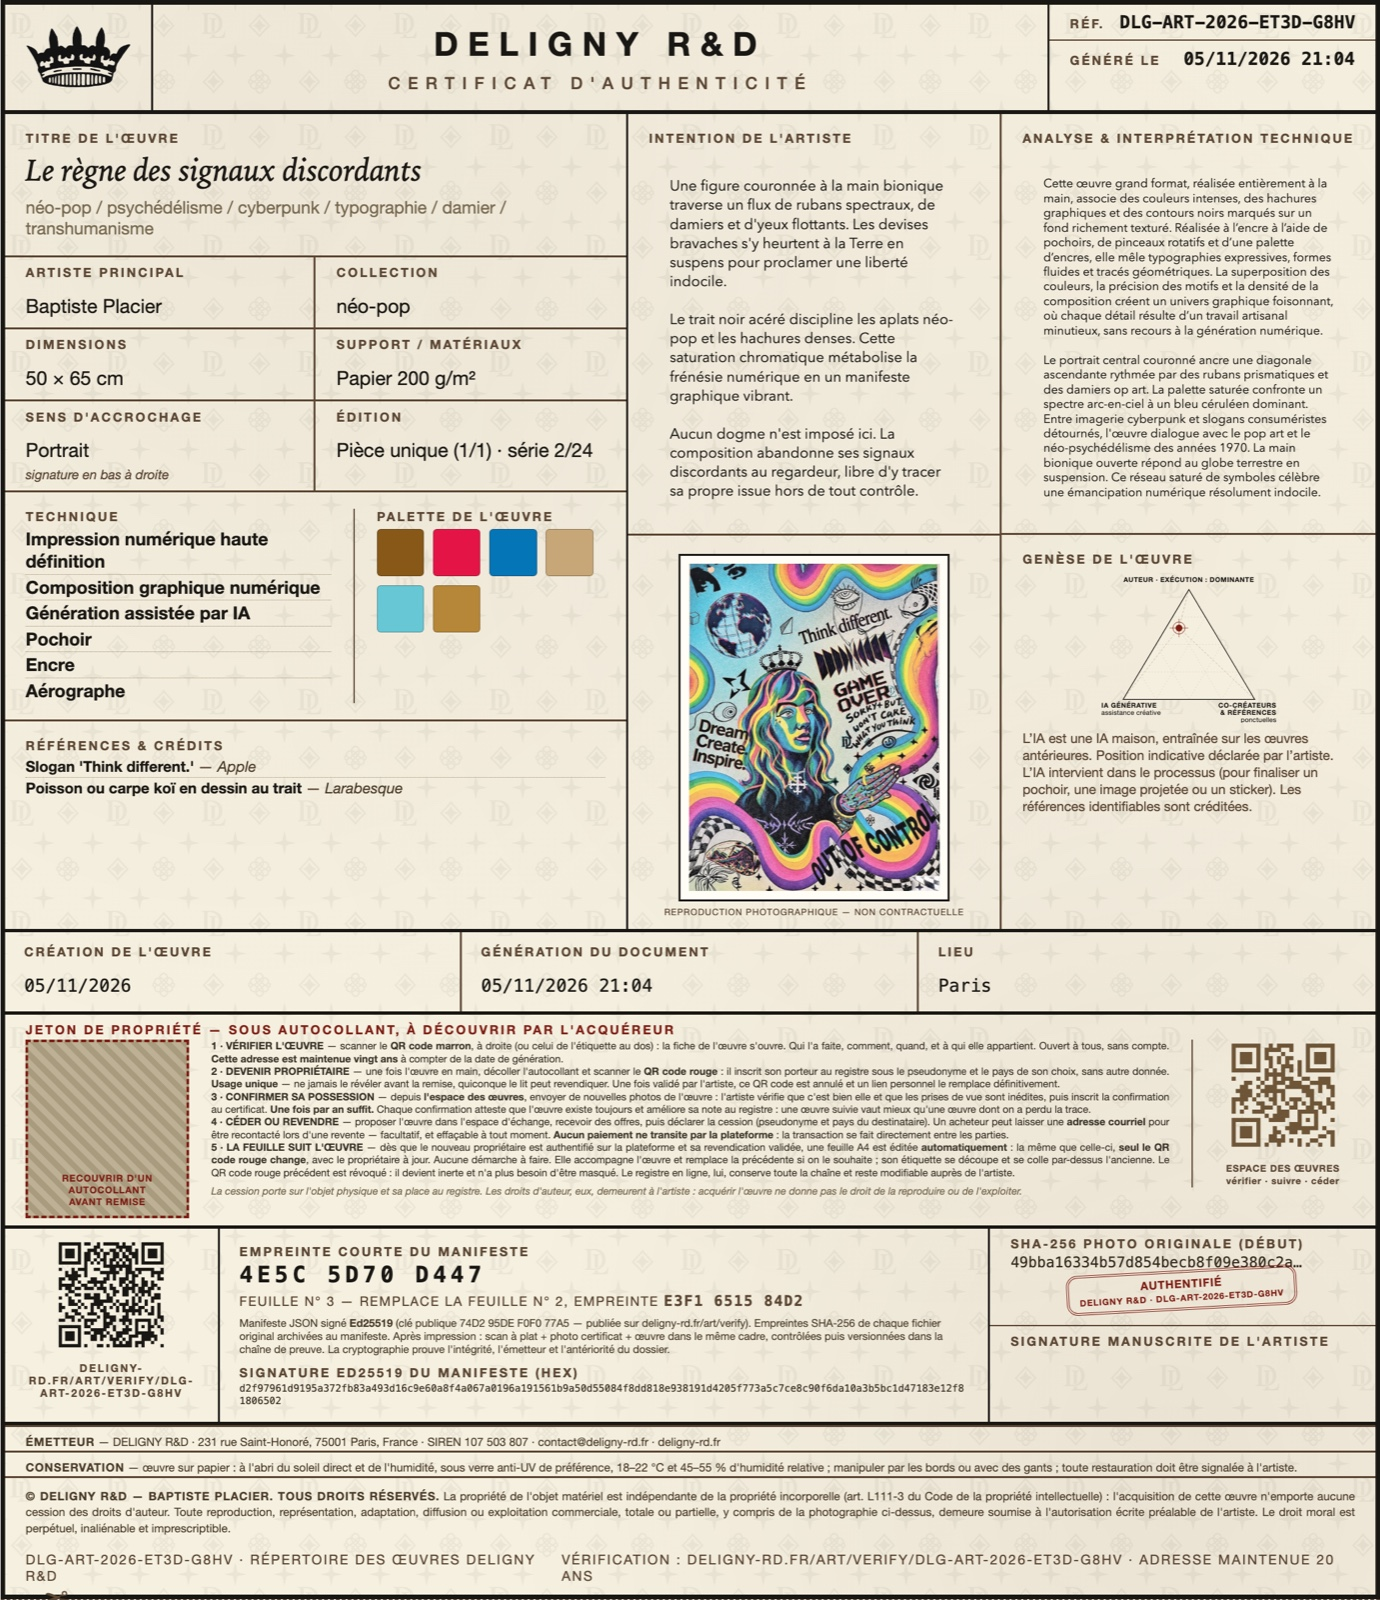
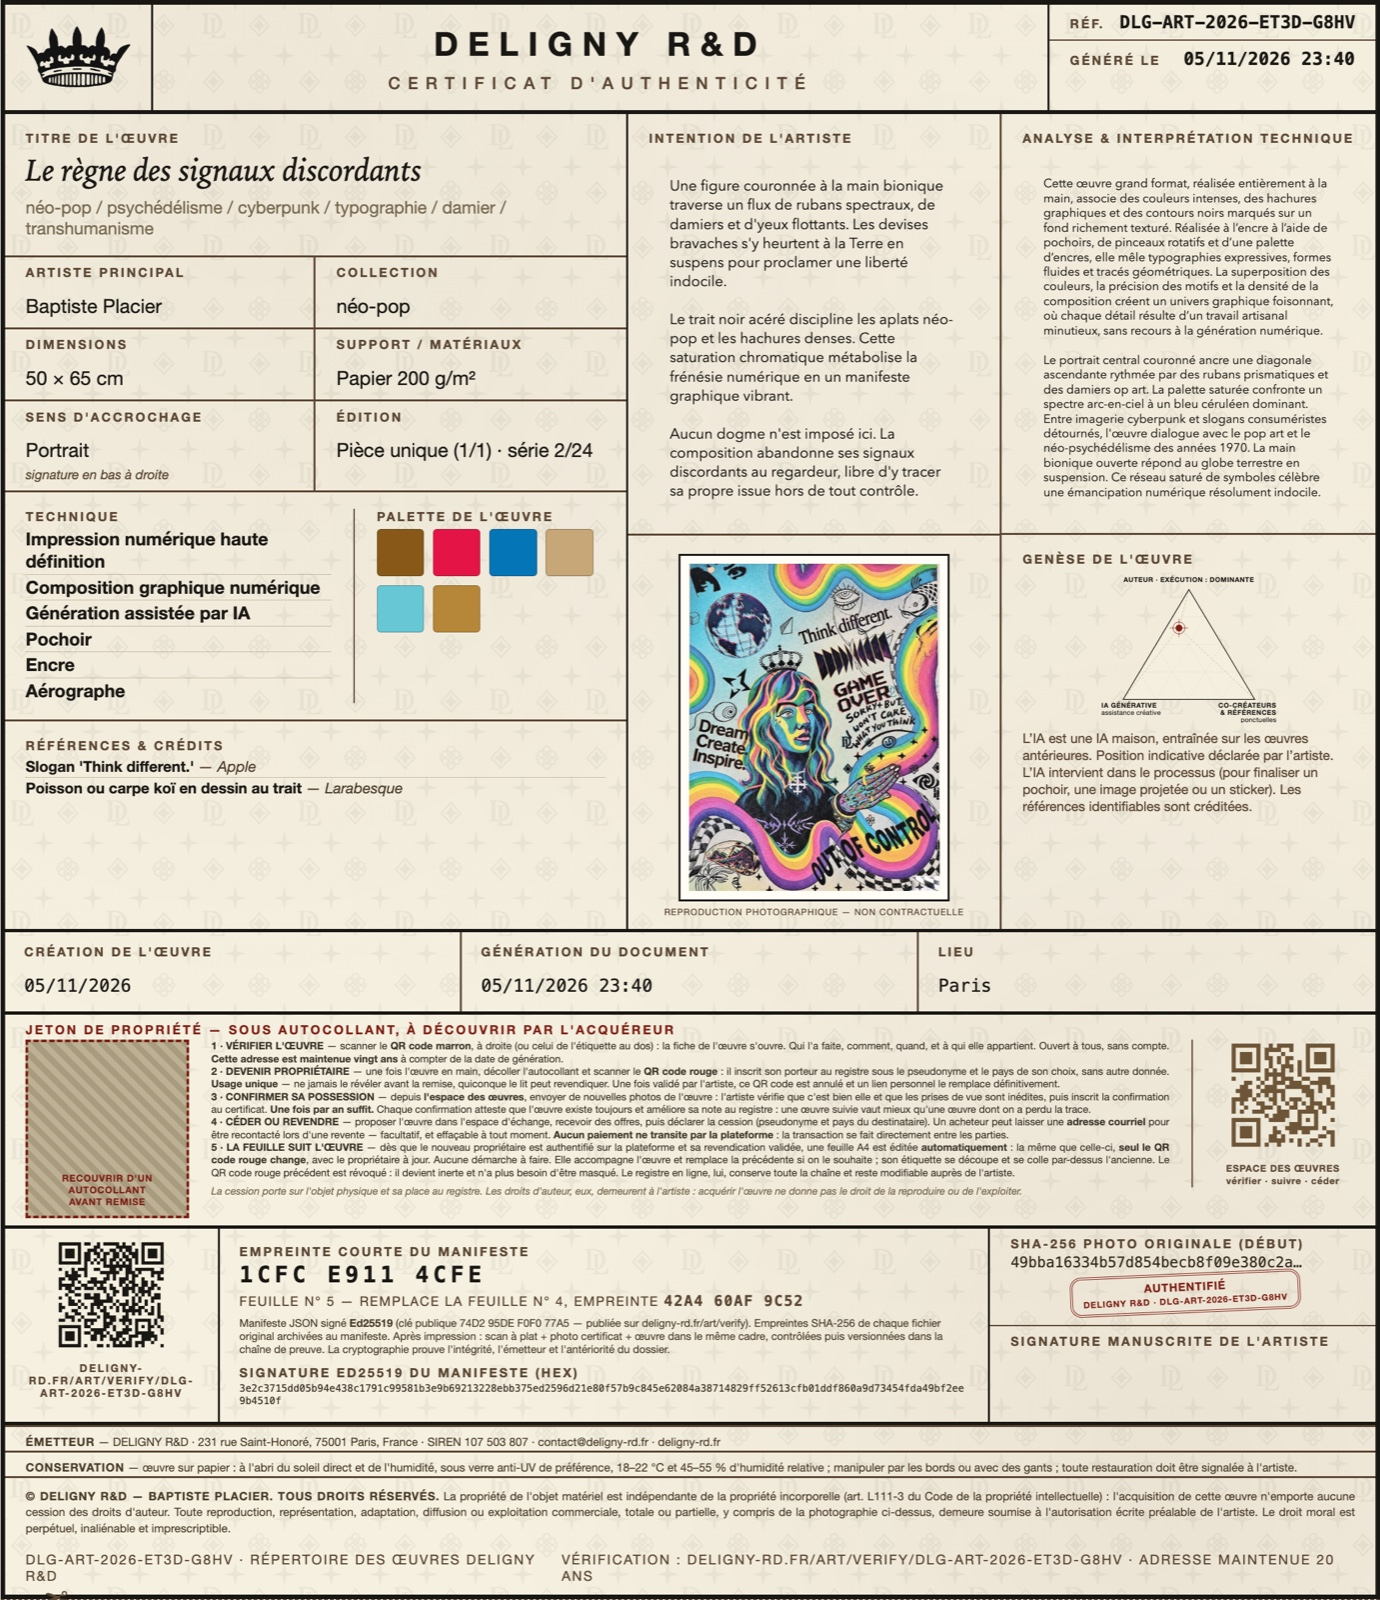
Art : Le regne des signaux discordants passe en etiquette blanche (manifeste v5)
La v4 publiee le 05/11 a 22:01 portait l'etiquette noire. La v5 signe
l'etiquette blanche : galerie 3D, fiche de verification, cartouche (empreinte
1CFC E911 4CFE), flux. Navigation du 04/11 inchangee.

diff --git a/art/verify/DLG-ART-2026-ET3D-G8HV/index.html b/art/verify/DLG-ART-2026-ET3D-G8HV/index.html
@@ -123,7 +123,7 @@
   <a class="bouton" href="#verification">Vérification ✓</a>
 </div>
 <div id="marche"></div>
-<div class="vues"><div><div class="vue-titre">Recto</div><div class="encadrement cad-baguette-or-pp10-bloc"><div class="cadre cad-baguette-or-pp10"><div class="pp"><img src="oeuvre.jpg" alt="Le règne des signaux discordants"><span class="etiquette-collee"><img src="etiquette_noire.jpg" alt="étiquette visible"></span></div></div></div></div><div><div class="vue-titre">Verso — cartouche collé au dos</div><div class="encadrement cad-baguette-or-pp10-bloc"><img class="verso3d" src="../../galerie-3d/oeuvres/DLG-ART-2026-ET3D-G8HV/dos3d.webp" alt="Dos du tableau encadré, cartouche collé" loading="lazy" style="width:100%;height:auto;display:block;filter:drop-shadow(0 6px 14px rgba(0,0,0,.28))"></div></div></div><div class="cadre-mention reel">Encadrement fourni avec l'œuvre, et remplaçable sur demande. Passe-partout 10 mm.</div>
+<div class="vues"><div><div class="vue-titre">Recto</div><div class="encadrement cad-baguette-or-pp10-bloc"><div class="cadre cad-baguette-or-pp10"><div class="pp"><img src="oeuvre.jpg" alt="Le règne des signaux discordants"><span class="etiquette-collee"><img src="etiquette_blanche.jpg" alt="étiquette visible"></span></div></div></div></div><div><div class="vue-titre">Verso — cartouche collé au dos</div><div class="encadrement cad-baguette-or-pp10-bloc"><img class="verso3d" src="../../galerie-3d/oeuvres/DLG-ART-2026-ET3D-G8HV/dos3d.webp" alt="Dos du tableau encadré, cartouche collé" loading="lazy" style="width:100%;height:auto;display:block;filter:drop-shadow(0 6px 14px rgba(0,0,0,.28))"></div></div></div><div class="cadre-mention reel">Encadrement fourni avec l'œuvre, et remplaçable sur demande. Passe-partout 10 mm.</div>
 
 <h2>Intention de l'artiste</h2><p style="white-space:pre-line;font-style:italic">Une figure couronnée à la main bionique traverse un flux de rubans spectraux, de damiers et d&#x27;yeux flottants. Les devises bravaches s&#x27;y heurtent à la Terre en suspens pour proclamer une liberté indocile.
 
@@ -172,8 +172,8 @@ Aucun dogme n&#x27;est imposé ici. La composition abandonne ses signaux discord
 <h2>Signature du manifeste</h2>
 <table>
 <tr><th>Algorithme</th><td>Ed25519 (RFC 8032)</td></tr>
-<tr><th>SHA-256 du manifeste</th><td class="mono">42a460af9c5282227649e40daca64f4ecb023c4513af33d857370a4716788627</td></tr>
-<tr><th>Signature</th><td class="mono">25d23caad58ebc00fcfc9fa1680c63ea5bc4424a0a8f0ca03bc1184a9f73c9966b327fb53467a6f31ecbf13699eba5cad61a88969ea7624d135caf039efdef0f</td></tr>
+<tr><th>SHA-256 du manifeste</th><td class="mono">1cfce9114cfee66ae48aa309dbf50d9cace95894513f0ac445ed71f4bd784fd5</td></tr>
+<tr><th>Signature</th><td class="mono">3e2c3715dd05b94e438c1791c99581b3e9b69213228ebb375ed2596d21e80f57b9c845e62084a38714829ff52613cfb01ddf860a9d73454fda49bf2ee9b4510f</td></tr>
 <tr><th>Clé publique</th><td class="mono">74d295def0f077a57770d479a2e12f91ec09580ff0696a812620b8e078fc007f (<a href="../cle-publique.txt">cle-publique.txt</a>)</td></tr>
 </table>
 
